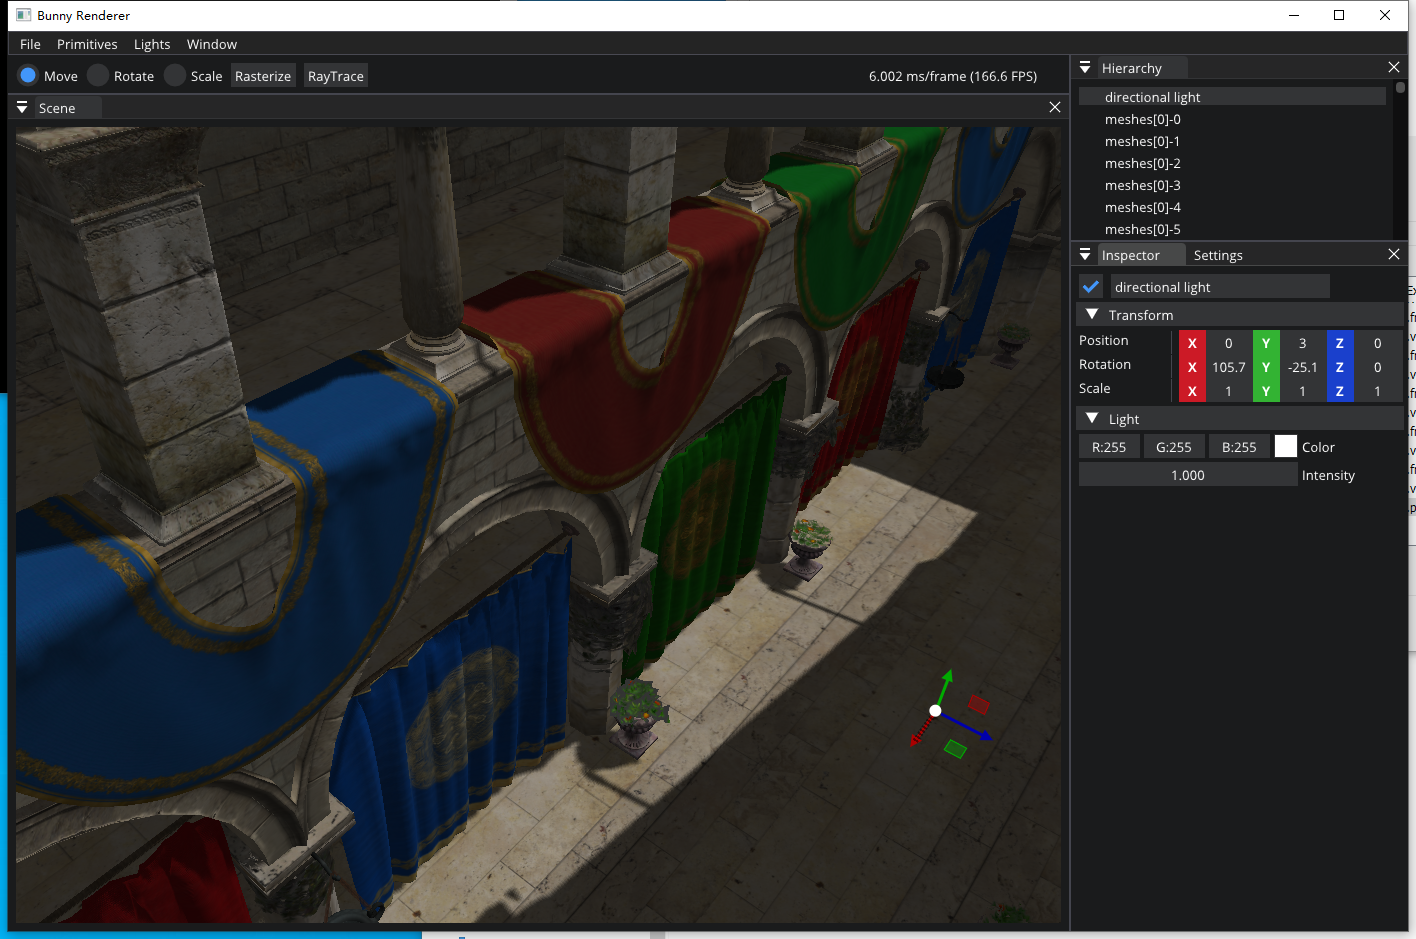
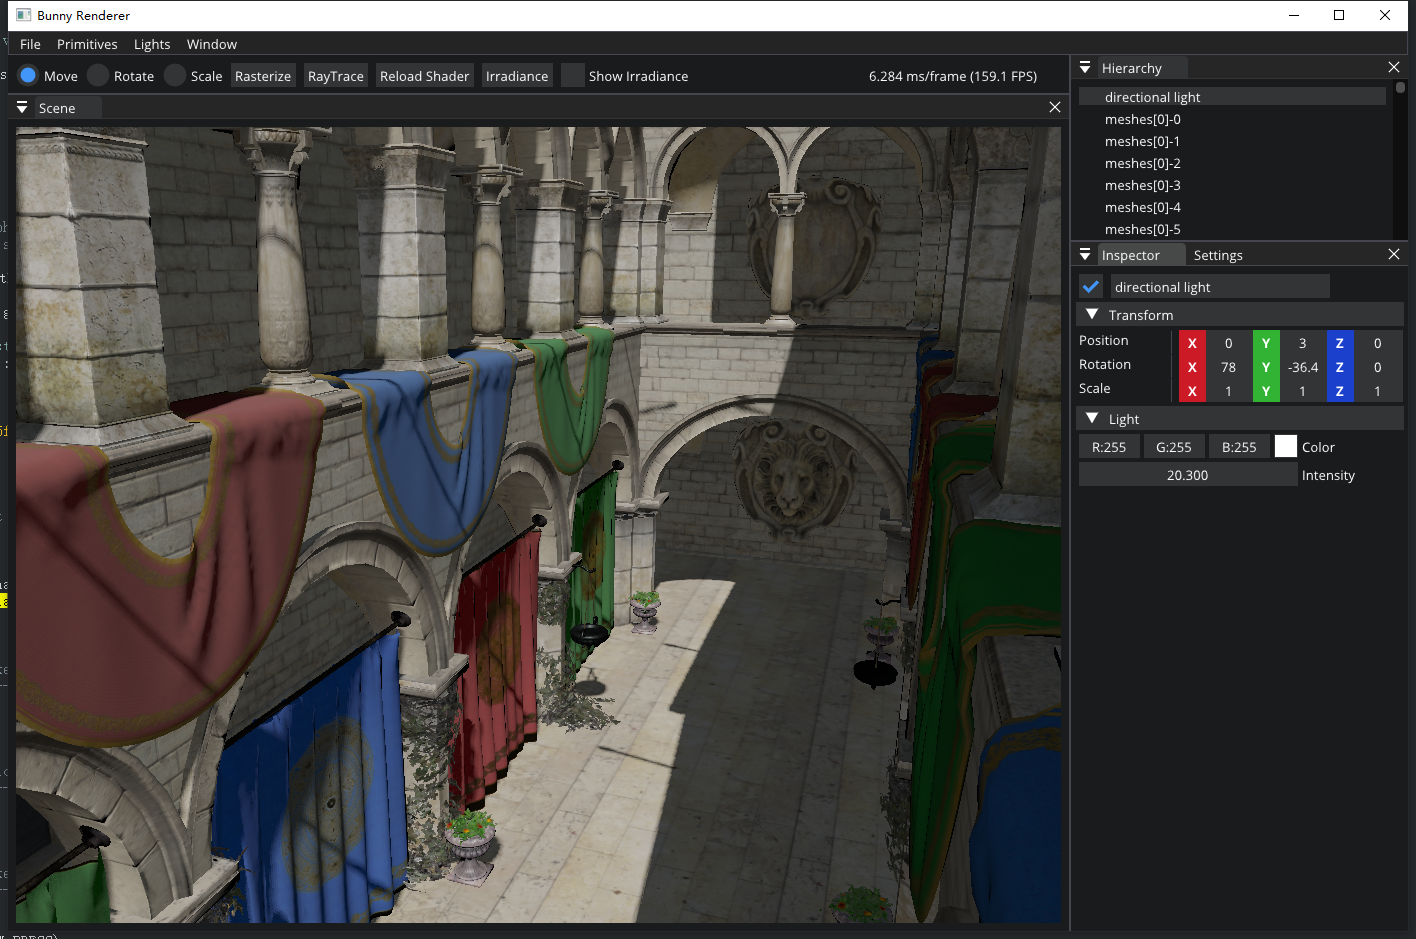
ibl diffuse

diff --git a/src/opengl/OpenGLRenderer.cpp b/src/opengl/OpenGLRenderer.cpp
@@ -119,11 +119,69 @@ OpenGLRenderer::OpenGLRenderer()
 	glTexParameteri(GL_TEXTURE_2D, GL_TEXTURE_MIN_FILTER, GL_LINEAR);
 	glTexParameteri(GL_TEXTURE_2D, GL_TEXTURE_MAG_FILTER, GL_LINEAR);
 	glFramebufferTexture2D(GL_FRAMEBUFFER, GL_COLOR_ATTACHMENT0, GL_TEXTURE_2D, postprocessRT, 0);
+
+	// capture fbo
+	glGenFramebuffers(1, &captureFBO);
+	glGenRenderbuffers(1, &captureRBO);
+
+	glBindFramebuffer(GL_FRAMEBUFFER, captureFBO);
+	glBindRenderbuffer(GL_RENDERBUFFER, captureRBO);
+	glRenderbufferStorage(GL_RENDERBUFFER, GL_DEPTH_COMPONENT24, 32, 32);
+	glFramebufferRenderbuffer(GL_FRAMEBUFFER, GL_DEPTH_ATTACHMENT, GL_RENDERBUFFER, captureRBO);
 }
 
 OpenGLRenderer::~OpenGLRenderer()
 {
 }
+
+void OpenGLRenderer::GenerateIrradianceMap(Scene& scene)
+{
+	unsigned int irradianceMap;
+	glGenTextures(1, &irradianceMap);
+	glBindTexture(GL_TEXTURE_CUBE_MAP, irradianceMap);
+	for (unsigned int i = 0; i < 6; ++i)
+	{
+		glTexImage2D(GL_TEXTURE_CUBE_MAP_POSITIVE_X + i, 0, GL_RGB16F, 32, 32, 0,
+			GL_RGB, GL_FLOAT, nullptr);
+	}
+	glTexParameteri(GL_TEXTURE_CUBE_MAP, GL_TEXTURE_WRAP_S, GL_CLAMP_TO_EDGE);
+	glTexParameteri(GL_TEXTURE_CUBE_MAP, GL_TEXTURE_WRAP_T, GL_CLAMP_TO_EDGE);
+	glTexParameteri(GL_TEXTURE_CUBE_MAP, GL_TEXTURE_WRAP_R, GL_CLAMP_TO_EDGE);
+	glTexParameteri(GL_TEXTURE_CUBE_MAP, GL_TEXTURE_MIN_FILTER, GL_LINEAR);
+	glTexParameteri(GL_TEXTURE_CUBE_MAP, GL_TEXTURE_MAG_FILTER, GL_LINEAR);
+
+	glm::mat4 captureProjection = glm::perspective(glm::radians(90.0f), 1.0f, 0.1f, 10.0f);
+	glm::mat4 captureViews[] =
+	{
+	   glm::lookAt(glm::vec3(0.0f, 0.0f, 0.0f), glm::vec3(1.0f,  0.0f,  0.0f), glm::vec3(0.0f, -1.0f,  0.0f)),
+	   glm::lookAt(glm::vec3(0.0f, 0.0f, 0.0f), glm::vec3(-1.0f,  0.0f,  0.0f), glm::vec3(0.0f, -1.0f,  0.0f)),
+	   glm::lookAt(glm::vec3(0.0f, 0.0f, 0.0f), glm::vec3(0.0f,  1.0f,  0.0f), glm::vec3(0.0f,  0.0f,  1.0f)),
+	   glm::lookAt(glm::vec3(0.0f, 0.0f, 0.0f), glm::vec3(0.0f, -1.0f,  0.0f), glm::vec3(0.0f,  0.0f, -1.0f)),
+	   glm::lookAt(glm::vec3(0.0f, 0.0f, 0.0f), glm::vec3(0.0f,  0.0f,  1.0f), glm::vec3(0.0f, -1.0f,  0.0f)),
+	   glm::lookAt(glm::vec3(0.0f, 0.0f, 0.0f), glm::vec3(0.0f,  0.0f, -1.0f), glm::vec3(0.0f, -1.0f,  0.0f))
+	};
+
+	Shader shader("editor/ibl");
+	shader.Activate();
+	shader.SetUniform("environmentMap", 0);
+	shader.SetUniform("projection", captureProjection);
+
+	glViewport(0, 0, 32, 32); // don't forget to configure the viewport to the capture dimensions.
+	glBindFramebuffer(GL_FRAMEBUFFER, captureFBO);
+	for (unsigned int i = 0; i < 6; ++i)
+	{
+		shader.SetUniform("view", captureViews[i]);
+		glFramebufferTexture2D(GL_FRAMEBUFFER, GL_COLOR_ATTACHMENT0,
+			GL_TEXTURE_CUBE_MAP_POSITIVE_X + i, irradianceMap, 0);
+		glClear(GL_COLOR_BUFFER_BIT | GL_DEPTH_BUFFER_BIT);
+
+		scene.skybox.DrawMesh();
+	}
+	glBindFramebuffer(GL_FRAMEBUFFER, 0);
+
+	scene.skybox.irradianceMap = irradianceMap;
+}
+
 
 int OpenGLRenderer::GetObjectID(int x, int y)
 {

diff --git a/src/common/Skybox.cpp b/src/common/Skybox.cpp
@@ -95,30 +95,34 @@ Skybox::~Skybox()
 		stbi_image_free(textures[i]);
 }
 
-void Skybox::Draw(Camera &camera)
+void Skybox::DrawMesh()
 {
 	glDisable(GL_CULL_FACE);
+	// Since the cubemap will always have a depth of 1.0, we need that equal sign so it doesn't get discarded
+	glDepthFunc(GL_LEQUAL);
 
-    // Since the cubemap will always have a depth of 1.0, we need that equal sign so it doesn't get discarded
-    glDepthFunc(GL_LEQUAL);
+	// Draws the cubemap as the last object so we can save a bit of performance by discarding all fragments
+	// where an object is present (a depth of 1.0f will always fail against any object's depth value)
+	glBindVertexArray(skyboxVAO);
+	glActiveTexture(GL_TEXTURE0);
+	glBindTexture(GL_TEXTURE_CUBE_MAP, showIrradianceMap ? irradianceMap : cubemapTexture);
+	glDrawElements(GL_TRIANGLES, 36, GL_UNSIGNED_INT, 0);
+	glBindVertexArray(0);
 
-    Shader::skyboxShader->Activate();
-    // We make the mat4 into a mat3 and then a mat4 again in order to get rid of the last row and column
-    // The last row and column affect the translation of the skybox (which we don't want to affect)
-    glm::mat4 view = glm::mat4(glm::mat3(camera.view));
-    glUniformMatrix4fv(glGetUniformLocation(Shader::skyboxShader->ID, "view"), 1, GL_FALSE, glm::value_ptr(view));
-    glUniformMatrix4fv(glGetUniformLocation(Shader::skyboxShader->ID, "projection"), 1, GL_FALSE, glm::value_ptr(camera.projection));
+	// Switch back to the normal depth function
+	glDepthFunc(GL_LESS);
+}
 
-    // Draws the cubemap as the last object so we can save a bit of performance by discarding all fragments
-    // where an object is present (a depth of 1.0f will always fail against any object's depth value)
-    glBindVertexArray(skyboxVAO);
-    glActiveTexture(GL_TEXTURE0);
-    glBindTexture(GL_TEXTURE_CUBE_MAP, cubemapTexture);
-    glDrawElements(GL_TRIANGLES, 36, GL_UNSIGNED_INT, 0);
-    glBindVertexArray(0);
+void Skybox::Draw(Camera &camera)
+{
+	Shader::skyboxShader->Activate();
+	// We make the mat4 into a mat3 and then a mat4 again in order to get rid of the last row and column
+	// The last row and column affect the translation of the skybox (which we don't want to affect)
+	glm::mat4 view = glm::mat4(glm::mat3(camera.view));
+	glUniformMatrix4fv(glGetUniformLocation(Shader::skyboxShader->ID, "view"), 1, GL_FALSE, glm::value_ptr(view));
+	glUniformMatrix4fv(glGetUniformLocation(Shader::skyboxShader->ID, "projection"), 1, GL_FALSE, glm::value_ptr(camera.projection));
 
-    // Switch back to the normal depth function
-    glDepthFunc(GL_LESS);
+	DrawMesh();
 }
 
 /*

diff --git a/src/rasterizer/RasterizerRenderer.h b/src/rasterizer/RasterizerRenderer.h
@@ -31,7 +31,7 @@ class RasterizerRenderer : public Renderer
             glTexParameteri(GL_TEXTURE_2D, GL_TEXTURE_WRAP_T, GL_CLAMP_TO_EDGE);
         }
 
-        virtual void RasterizerRenderer::Render(Scene& scene)
+        virtual void Render(Scene& scene)
         {
             int length = viewport.x * viewport.y;
 
@@ -50,10 +50,10 @@ class RasterizerRenderer : public Renderer
             delete[] zbuffer;
             delete[] pixels;
         }
-        
+
     private:
 
-        void RasterizerRenderer::Clear(uint8_t* pixels, glm::vec3& clearColor)
+        void Clear(uint8_t* pixels, glm::vec3& clearColor)
         {
             for (int j = 0; j < viewport.y; j++)
             {
@@ -85,7 +85,7 @@ class RasterizerRenderer : public Renderer
             }
         }
 
-        void RasterizerRenderer::Rasterize(Scene& scene, uint8_t* pixels, float* zbuffer)
+        void Rasterize(Scene& scene, uint8_t* pixels, float* zbuffer)
         {
             Clear(pixels, scene.camera.clearColor);
 

diff --git a/src/common/Shader.cpp b/src/common/Shader.cpp
@@ -1,4 +1,5 @@
 #include "Shader.h"
+#include <glm/gtc/type_ptr.hpp>
 
 #ifdef __DEVELOPMENT__
 std::string RESOURCE_PATH("D:/bunny-renderer/"); // local resource path
@@ -79,6 +80,23 @@ void Shader::LoadShader()
 Shader::Shader(std::string shaderName) : shaderName(shaderName)
 {
     LoadShader();
+}
+
+void Shader::SetUniform(const GLchar* name, int i)
+{
+    glUniform1i(glGetUniformLocation(ID, name), i);
+}
+void Shader::SetUniform(const GLchar* name, glm::vec3& v)
+{
+    glUniform3fv(glGetUniformLocation(ID, name), 1, (float*)&v);
+}
+void Shader::SetUniform(const GLchar* name, glm::vec4& v)
+{
+    glUniform3fv(glGetUniformLocation(ID, name), 1, (float*)&v);
+}
+void Shader::SetUniform(const GLchar* name, glm::mat4& m)
+{
+    glUniformMatrix4fv(glGetUniformLocation(ID, name), 1, GL_FALSE, glm::value_ptr(m));
 }
 
 void Shader::Activate()

diff --git a/src/rasterizer/our_gl.h b/src/rasterizer/our_gl.h
@@ -87,12 +87,13 @@ void rasterize_triangle(float* varys[], unsigned int length, Material& material,
             }
 
             glm::vec4 color = material.fragment(o);
+            glm::vec4 clampedColor = glm::clamp(color, 0.0f, 1.0f); // no hdr, clamp color to prevent overflow
 
             delete[] o;
 
-            pixels[index * 4] = uint8_t(color.r * 255);
-            pixels[index * 4 + 1] = uint8_t(color.g * 255);
-            pixels[index * 4 + 2] = uint8_t(color.b * 255);
+            pixels[index * 4] = uint8_t(clampedColor.r * 255);
+            pixels[index * 4 + 1] = uint8_t(clampedColor.g * 255);
+            pixels[index * 4 + 2] = uint8_t(clampedColor.b * 255);
             pixels[index * 4 + 3] = 255;
 
             if (zwrite)

diff --git a/src/opengl/OpenGLRenderer.h b/src/opengl/OpenGLRenderer.h
@@ -11,6 +11,9 @@ class OpenGLRenderer : public Renderer
 
         int GetObjectID(int x, int y);
         virtual void Render(Scene &scene);
+        void GenerateIrradianceMap(Scene& scene);
+
+    public:
 	    GLuint postprocessRT;
         GLuint outlineRT;
 
@@ -23,6 +26,7 @@ class OpenGLRenderer : public Renderer
 
         GLuint postprocessFBO;
         GLuint outlineFBO;
+        GLuint captureFBO, captureRBO;
 
         unsigned int shadowMapWidth = 2048, shadowMapHeight = 2048;
 

diff --git a/src/Application.h b/src/Application.h
@@ -530,6 +530,15 @@ public:
 			std::cout << "Reloaded Shaders." << std::endl;
 		}
 
+		//ImGui::SameLine();
+		//if (ImGui::Button("Irradiance"))
+		//{
+		//	openglRenderer.GenerateIrradianceMap(scene);
+		//}
+
+		ImGui::SameLine();
+		ImGui::Checkbox("Show Irradiance", &scene.skybox.showIrradianceMap);
+
 		ImGui::SameLine(ImGui::GetWindowWidth() - 200);
 		ImGui::Text("%.3f ms/frame (%.1f FPS)", 1000.0f / ImGui::GetIO().Framerate, ImGui::GetIO().Framerate);
 

diff --git a/src/common/Shader.h b/src/common/Shader.h
@@ -14,6 +14,11 @@ class Shader
         void ReloadShader();
         void Activate();
 
+        void SetUniform(const GLchar* name, int i);
+        void SetUniform(const GLchar* name, glm::vec3& v);
+        void SetUniform(const GLchar* name, glm::vec4& v);
+        void SetUniform(const GLchar* name, glm::mat4& m);
+
         static void Init();
         static std::shared_ptr<Shader> unlitShader;
         static std::shared_ptr<Shader> defaultShader;

diff --git a/src/common/Scene.cpp b/src/common/Scene.cpp
@@ -202,6 +202,10 @@ void Scene::Draw()
                 glActiveTexture(GL_TEXTURE3);
                 glBindTexture(GL_TEXTURE_2D, shadowMap);
 
+                mesh->material->SetUniform("irradianceMap", 4);
+                glActiveTexture(GL_TEXTURE4);
+                glBindTexture(GL_TEXTURE_CUBE_MAP, skybox.irradianceMap);
+
                 mesh->Draw();
             }
         }

diff --git a/src/common/Skybox.h b/src/common/Skybox.h
@@ -11,8 +11,12 @@ class Skybox
     public:
         Skybox();
         ~Skybox();
+        void DrawMesh();
         void Draw(Camera &camera);
         glm::vec4 texCube(glm::vec3 direction);
+
+        bool showIrradianceMap = false;
+        unsigned int irradianceMap;
 
         unsigned char** textures;
         int width, height, nrChannels;

diff --git a/src/main.cpp b/src/main.cpp
@@ -59,6 +59,8 @@ int main(int argc, char* argv[]) {
 	RasterizerRenderer rasterizerRenderer;
 	RayTracerRenderer raytracer;
 
+	openglRenderer.GenerateIrradianceMap(scene);
+
 	Application app(camera, scene, openglRenderer, rasterizerRenderer, raytracer);
 
 	double lastTime = glfwGetTime();
